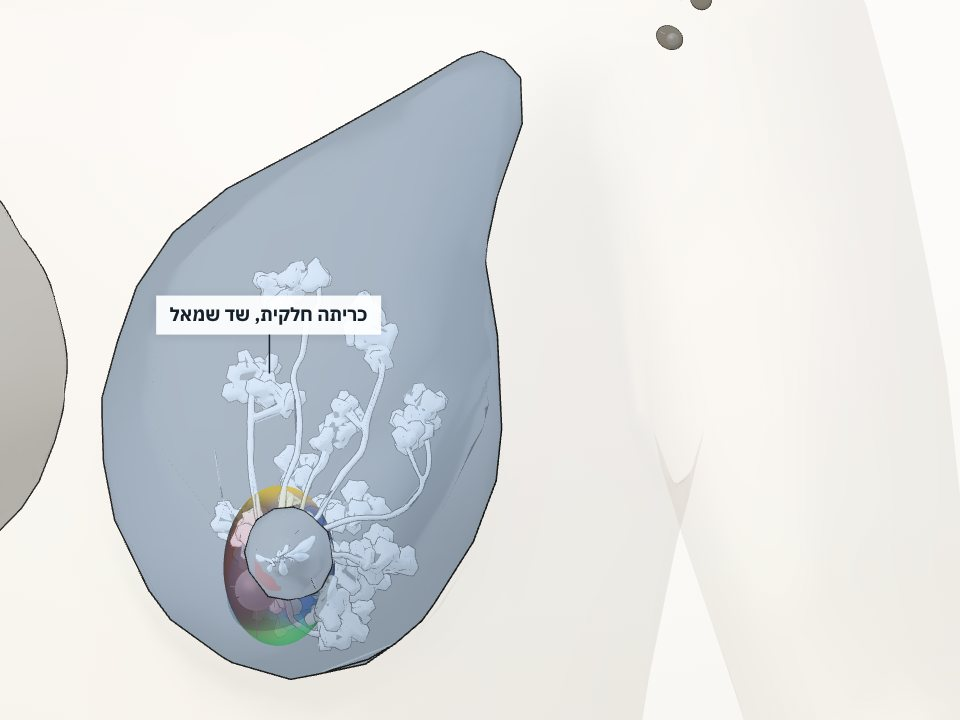
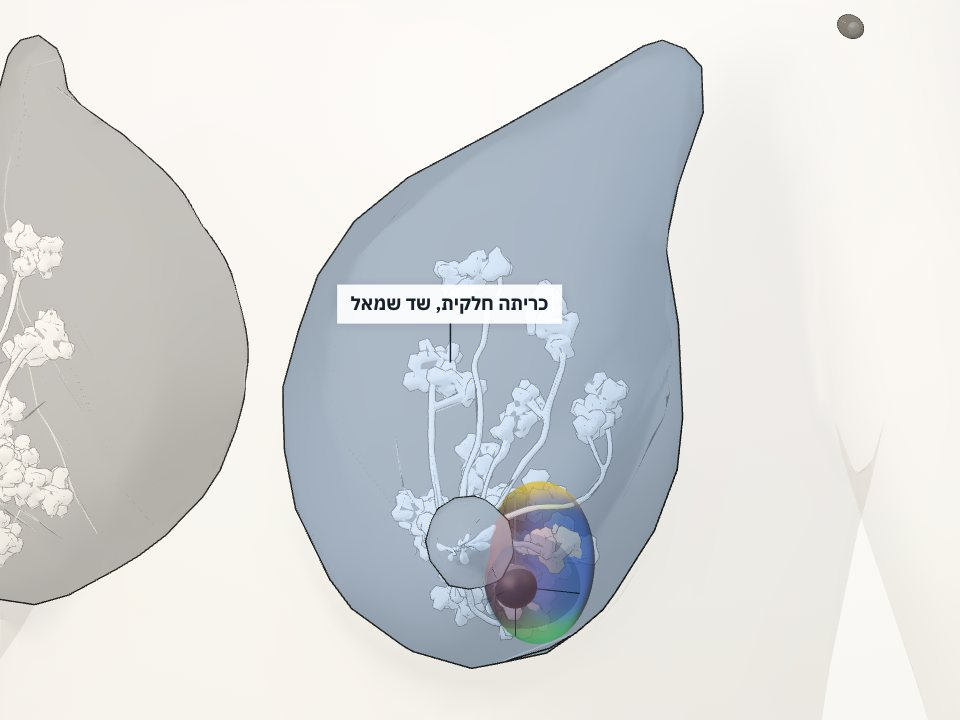
Two frames on every screen, and the case in the lower-outer quadrant
- Layout: from 1000px every screen is two frames, the stage in two thirds
  (.frame-main) and the reading in a third (.panel). The legend is one strip
  above the stage. Home: text and body side by side, then the video in two
  thirds (hero slot) and the example case in a third. The lab page follows
  the same ratio. Phones keep one column.
- Case: a quadrant field decides the side when a report gives both a clock
  hour and a quadrant; the case sits in the lower-outer quadrant of the left
  breast, by its owner's correction.

Claude-Session: https://claude.ai/code/session_018qeN17xUQZtetaXmSbmC2V

diff --git a/lab/pathology.html b/lab/pathology.html
@@ -22,7 +22,7 @@
 [hidden] { display: none !important; }
 html, body { margin: 0; height: 100%; }
 body { font-family: var(--sans); color: var(--ink); background: var(--paper); direction: rtl; }
-.lab { display: grid; grid-template-columns: minmax(0, 1fr) 400px; height: 100vh; }
+.lab { display: grid; grid-template-columns: minmax(0, 2fr) minmax(0, 1fr); height: 100vh; }
 .stage { position: relative; min-height: 0; overflow: hidden; direction: ltr; background: radial-gradient(120% 90% at 50% 35%, #ffffff 0%, #f7f5f0 70%, #efebe2 100%); }
 .stage canvas { position: absolute; inset: 0; width: 100%; height: 100%; display: block; touch-action: none; cursor: grab; }
 .stage canvas:active { cursor: grabbing; }
@@ -203,7 +203,7 @@ import { CASES } from '../js/case.js';
 // The report is never stored in the repository: it lives in the URL fragment (never sent to a server) and in localStorage.
 // The example below is invented, for illustration only.
 const EXAMPLE = {
-  side: 'R', clock: '10', near: 'far',
+  side: 'R', clock: '10', quad: '', near: 'far',
   ml: 40, si: 38, ap: 30,
   inkLat: 'orange', inkMed: 'green', inkSup: 'blue', inkInf: 'red', inkAnt: 'yellow', inkPost: 'black',
   idc: 9, grade: '1', dcis: 14, lvi: 'no',
@@ -216,7 +216,7 @@ const EXAMPLE = {
 };
 const FIELDS = [
   ['h', 'הניתוח'],
-  ['side', 'צד', { L: 'שמאל', R: 'ימין' }], ['near', 'מרחק מהפטמה', { '': 'לא נכתב', retro: 'מאחורי העטרה', far: 'רחוק מהפטמה' }], ['clock', 'מיקום בשד, לפי שעון', { '': 'לא נכתב בדוח', 12: '12', 1: '1', 2: '2', 3: '3', 4: '4', 5: '5', 6: '6', 7: '7', 8: '8', 9: '9', 10: '10', 11: '11' }],
+  ['side', 'צד', { L: 'שמאל', R: 'ימין' }], ['quad', 'רבע בשד', { '': 'לא נכתב', uo: 'חיצוני־עליון', lo: 'חיצוני־תחתון', ui: 'פנימי־עליון', li: 'פנימי־תחתון' }], ['near', 'מרחק מהפטמה', { '': 'לא נכתב', retro: 'מאחורי העטרה', far: 'רחוק מהפטמה' }], ['clock', 'מיקום בשד, לפי שעון', { '': 'לא נכתב בדוח', 12: '12', 1: '1', 2: '2', 3: '3', 4: '4', 5: '5', 6: '6', 7: '7', 8: '8', 9: '9', 10: '10', 11: '11' }],
   ['h', 'מידות הדגימה'],
   ['ml', 'לטרלי עד מדיאלי'], ['si', 'עליון עד תחתון'], ['ap', 'קדמי עד אחורי'],
   ['h', 'צבע הדיו בכל צד'],
@@ -243,6 +243,7 @@ const DIRS = [ // key, Hebrew, gross field, DCIS field, ink field
   ['post', 'אחורי', 'gPost', 'dPost', 'inkPost'], ['lat', 'לטרלי', 'gLat', 'dLat', 'inkLat'], ['med', 'מדיאלי', 'gMed', 'dMed', 'inkMed'],
 ];
 const INK = '#16202b', NAVY = '#1f4e79', PORCELAIN = '#fbf8f2';
+const QUADS = { uo: 'חיצוני־עליון', lo: 'חיצוני־תחתון', ui: 'פנימי־עליון', li: 'פנימי־תחתון' };
 const KEY = 'refua.lab.pathology';
 const num = (v) => { const n = parseFloat(String(v ?? '').replace(/[<>≤~\s]/g, '').replace(',', '.')); return Number.isFinite(n) ? n : null; };
 const lt = (v) => /[<≤]/.test(String(v ?? ''));
@@ -444,10 +445,13 @@ function layout() {
     if (h) {
       const a = (h % 12) / 12 * Math.PI * 2; // seen from the front: 12 is up, 3 is towards the patient's left
       const rad = R.near === 'retro' ? 14 : 42; // behind the areola, or out in the breast
-      spec.position.set(nip.x + Math.sin(a) * rad, nip.y + half.y + 5, nip.z + Math.cos(a) * rad);
+      // The quadrant, when written, decides the side: reports do not always count the clock from the same side.
+      let dx = Math.sin(a) * rad; const out = R.quad && R.quad[1] === 'o', inn = R.quad && R.quad[1] === 'i';
+      if ((out && dx * s < 0) || (inn && dx * s > 0)) dx = -dx;
+      spec.position.set(nip.x + dx, nip.y + half.y + 5, nip.z + Math.cos(a) * rad);
     }
     const top = new THREE.Vector3(nip.x, nip.y - 6, nip.z + 62);
-    const t1 = tag(`<b>כריתה חלקית, שד ${R.side === 'R' ? 'ימין' : 'שמאל'}</b><small>${h ? `שעה ${h}${R.near === 'retro' ? ', מאחורי העטרה' : ''} · מיקום מקורב` : 'המיקום בתוך השד לא נכתב בדוח'}</small>`, top, 'pin'); tags[tags.length - 1].body = true; t1.dataset.pin = 'breast';
+    const t1 = tag(`<b>כריתה חלקית, שד ${R.side === 'R' ? 'ימין' : 'שמאל'}</b><small>${h ? `שעה ${h}${QUADS[R.quad] ? `, ${QUADS[R.quad]}` : ''}${R.near === 'retro' ? ', מאחורי העטרה' : ''} · מיקום מקורב` : 'המיקום בתוך השד לא נכתב בדוח'}</small>`, top, 'pin'); tags[tags.length - 1].body = true; t1.dataset.pin = 'breast';
     // Sentinel nodes sit in the armpit; the exact spot is not in the report, so the place is representative.
     const axl = new THREE.Vector3(s * 150, -78, 1322);
     list.forEach((g, i) => { g.position.set(axl.x + s * i * 9, axl.y + i * 4, axl.z + i * 12); g.rotation.set(0, 0.5 * s, 0); });

diff --git a/css/app.css b/css/app.css
@@ -82,7 +82,7 @@ ai-menu { margin-inline-start: auto; }
 /* ---------- Work area: right = entry, centre = focus, left = detail ---------- */
 .work {
   display: grid; min-height: 0;
-  grid-template-columns: minmax(260px, 21rem) minmax(0, 1fr) minmax(340px, 29rem);
+  grid-template-columns: minmax(0, 2fr) minmax(0, 1fr); /* two frames: two thirds and a third */
   gap: var(--s4); padding: var(--s3) var(--s4);
 }
 .intro, .panel { min-height: 0; overflow: auto; scrollbar-width: thin; }
@@ -231,11 +231,6 @@ ai-menu { margin-inline-start: auto; }
 
 /* ---------- Medium: figure + panel, intro on top ---------- */
 @media (max-width: 1199px) {
-  .work { grid-template-columns: minmax(0, 1fr) minmax(320px, 26rem); grid-template-rows: auto minmax(0, 1fr); }
-  .intro { grid-column: 1 / -1; display: grid; grid-template-columns: minmax(0, 1.2fr) minmax(0, 1fr) minmax(0, 1fr); gap: var(--s4); overflow: visible; }
-  .intro > .label, .intro .headline, .intro .lede { grid-column: 1; }
-  .home-lead { grid-column: 1 / -1; overflow: visible; }
-  .intro .legend-block { grid-row: 1 / span 3; border-top: 0; padding-top: 0; }
   .inspo, .museum .haiku { display: none; }
   .museum { grid-template-columns: minmax(0, 1fr); }
 }
@@ -701,3 +696,39 @@ body.is-creations .work { display: block; overflow: visible; }
 body.is-creations .intro, body.is-creations .stage, body.is-creations .panel, body.is-creations .home-lead { display: none; }
 .creations-page { display: block; max-width: 1280px; margin: 0 auto; padding: var(--s2) 0 var(--s5); }
 .creations-page app-creations { --cr-sans: var(--sans); --cr-mono: var(--mono); --cr-accent: var(--known); }
+
+/* ---------- Two frames on every screen (Anat, 11.11.2026): the stage in two thirds, the reading in a third ---------- */
+.frame-main { display: contents; }
+@media (min-width: 1000px) {
+  .frame-main {
+    display: grid; grid-template-columns: minmax(0, 1fr); grid-template-rows: auto minmax(0, 1fr); gap: var(--s2); min-height: 0; min-width: 0;
+    background: var(--paper); border: 1px solid var(--hair); padding: var(--s3) var(--s4);
+    box-shadow: 0 1px 2px rgba(22,32,43,.06), 0 18px 40px -28px rgba(22,32,43,.45);
+  }
+  /* The legend becomes one quiet strip above the stage. */
+  .intro { flex-direction: row; flex-wrap: wrap; align-items: baseline; gap: 4px var(--s4); overflow: visible; padding: 0 0 var(--s2); border-bottom: 1px solid var(--hair); }
+  .intro > .label, .intro .lede, .intro .inspo, .intro .legend-block:first-of-type, .intro .legend-block .label { display: none; }
+  .intro .headline { font-size: 19px; margin: 0; }
+  .intro .legend-block { border: 0; padding: 0; margin: 0; margin-inline-start: auto; }
+  .intro .layers-legend { display: flex; gap: var(--s3); flex-wrap: wrap; margin: 0; }
+  .intro .layers-legend li { font-size: 12.5px; grid-template-columns: 30px auto; gap: 6px; }
+  .intro .layers-legend li > :nth-child(n+3) { display: none; }
+
+  /* Home: the teaching and the body side by side, then the video in two thirds and the case in a third. */
+  body.is-home .frame-main { grid-template-columns: minmax(0, 1fr) minmax(0, 1fr); grid-template-rows: none; grid-auto-rows: auto; align-content: start; gap: var(--s3) var(--s4); overflow: auto; scrollbar-width: thin; }
+  body.is-home .home-lead { display: contents; }
+  body.is-home .home-text { grid-column: 1; grid-row: 1; display: flex; flex-direction: column; gap: var(--s3); min-width: 0; }
+  body.is-home .stage { grid-column: 2; grid-row: 1; min-height: 360px; }
+  body.is-home .home-feature, body.is-home #quiz-box, body.is-home .home-lead > .inspo { grid-column: 1 / -1; }
+  body.is-home .home-feature { grid-template-columns: minmax(0, 2fr) minmax(0, 1fr); gap: var(--s3); }
+  body.is-home .home-feature:has(.home-demo:empty) { grid-template-columns: minmax(0, 1fr); }
+  body.is-home .home-feature:has(.home-demo:empty) .home-case { grid-template-columns: minmax(0, 1fr) minmax(0, 2fr); column-gap: var(--s3); }
+  body.is-home .home-feature:has(.home-demo:empty) .home-case img { grid-row: 1 / span 4; margin: 0; }
+  body.is-home .museum { display: none; }
+  body.is-creations .frame-main { display: none; }
+}
+@media (min-width: 1000px) and (max-width: 1199px) {
+  body.is-home .frame-main { grid-template-columns: minmax(0, 1fr); }
+  body.is-home .stage { grid-column: 1; grid-row: 2; }
+  body.is-home .home-feature { grid-template-columns: minmax(0, 1fr); }
+}

diff --git a/js/case.js b/js/case.js
@@ -12,7 +12,7 @@ export const CASES = [
     image: 'img/case-anat.jpg',
     source_he: 'מכתב סיכום ודוח פתולוגי, 2026. מסמכים אישיים, באישור בעלת המקרה.',
     steps: [
-      { k: 'סקר', view: 'body', text_he: 'ממוגרפיה של **בדיקת סקר** מצאה אסימטריה בשד שמאל. לא היה גוש שהורגש קודם.' },
+      { k: 'סקר', view: 'body', text_he: 'ממוגרפיה של **בדיקת סקר** מצאה אסימטריה בשד שמאל, בחלק **החיצוני־התחתון**. לא היה גוש שהורגש קודם.' },
       { k: 'הדמיה', view: 'body', text_he: 'אולטרסאונד: גוש של כ-**10** מ״מ בשד שמאל, ב**שעה 8**, מאחורי העטרה. המקום סומן בקליפ.' },
       { k: 'ביופסיה', view: 'spec', text_he: 'דגימת מחט: **קרצינומה פולשנית של הצינורות** (IDC), דרגה **2**. קולטני אסטרוגן חיוביים. פרוגסטרון ו-HER2 שליליים.' },
       { k: 'ניתוח', view: 'spec', text_he: '**כריתה חלקית**: הגוש יצא עם שכבת רקמה סביבו. מבית השחי נלקחו **2** בלוטות זקיף.' },
@@ -21,7 +21,7 @@ export const CASES = [
       { k: 'הרחבה', view: 'ext', text_he: 'בהרחבת השוליים, בצד התחתון־מדיאלי: **3** צינורות עם DCIS, במרחק **2.6** מ״מ מהשוליים החדשים.' },
     ],
     report: {
-      side: 'L', clock: '8', near: 'retro', ml: 30, si: 45, ap: 35,
+      side: 'L', clock: '8', quad: 'lo', near: 'retro', ml: 30, si: 45, ap: 35,
       inkLat: 'black', inkMed: 'black', inkSup: 'yellow', inkInf: 'green', inkAnt: 'red', inkPost: 'blue',
       idc: 12, grade: '2', dcis: 30, lvi: 'yes',
       gSup: 20, gInf: 7, gAnt: 3, gPost: 10, gLat: 17, gMed: 6,

diff --git a/js/app.js b/js/app.js
@@ -451,6 +451,7 @@ let quizState = { answers: {} };
 function homeLead() {
   const n = (x) => `<span class="num">${x}</span>`;
   return `
+    <div class="home-text">
     <p class="label">על רגל אחת</p>
     <blockquote class="hillel">
       <p class="h-ar">„${HOME.hillel_he}”</p>
@@ -465,8 +466,9 @@ function homeLead() {
       <li><button class="numcell press-soft" data-view-go="history">${n(TIMELINE.length)}<span>גילויים</span></button></li>
       <li><button class="numcell press-soft" data-view-go="sources">${n(Object.keys(SOURCES).length)}<span>מקורות</span></button></li>
     </ul>
+    </div>
     <div class="home-feature">
-      <div class="home-demo" data-aoa-demo="large" aria-label="סרטון הדגמה"></div>
+      <div class="home-demo" data-aoa-demo="hero" aria-label="סרטון הדגמה"></div>
       ${CASES.slice(0, 1).map((c) => `<a class="home-case press-soft" href="${caseHref(c)}">
         <img src="${c.image}" alt="" loading="lazy">
         <span class="label">מקרה לדוגמה · סרטן השד</span>

diff --git a/index.html b/index.html
@@ -46,6 +46,7 @@
 
   <main class="work" dir="rtl">
 
+    <div class="frame-main">
     <aside class="intro" aria-label="איך קוראים את המפה">
       <p class="label">אטלס של גילויים</p>
       <h1 class="headline display">הגוף כעיר של רשתות. <mark>כל רשת היא גילוי.</mark></h1>
@@ -122,6 +123,7 @@
         </figure>
       </div>
     </section>
+    </div>
 
     <!-- יצירות: חדר לכל נושא, נטען רק בכניסה לדף (AppOfApp-GH/docs/creations-standard.md) -->
     <section class="creations-page" id="creations-page" aria-label="יצירות" hidden></section>

diff --git a/CLAUDE.md b/CLAUDE.md
@@ -114,6 +114,9 @@
   - **בדף הבית:** אריח המקרה יושב עם הסרטון באותה משבצת (`.home-feature`), מעל "בדיקה של דקה".
   - **חריגה מכוונת מ-SAFETY סעיף 9** ("סטטיסטיקה ברמת אוכלוסייה בלבד"), באישור ענת: מקרה אישי אחד, מסומן "מקרה אחד, ולא כלל", בלי פירוש, בלי תחזית ובלי המלצה.
 
+- 11.11.2026: ענת: "תארגן את כל המסכים באפליקציה ב-2 מסגרות ביחס שני שליש, את דף הפתיחה ואת הסרטון בו". **שתי מסגרות בכל מסך**, מרוחב 1000 פיקסלים: הבמה בשני שליש (`.frame-main`), והקריאה בשליש (`.panel`). המקרא (ידוע, נאמר, מאמינים) הפך לפס אחד מעל הבמה. בדף הבית, במסגרת הגדולה: הטקסט והגוף זה לצד זה, ומתחתם הסרטון בשני שליש (`data-aoa-demo="hero"`) והמקרה לדוגמה בשליש. גם `lab/pathology.html` באותו יחס. בנייד נשאר טור אחד (`.frame-main` ב-`display: contents`).
+- 11.11.2026: ענת: "8 הוא חיצוני תחתון". בדוח שלה שעה 8 בשד שמאל היא הצד החיצוני־התחתון. נוסף שדה `quad` (רבע בשד): כשהוא כתוב, הוא קובע את הצד, והשעה קובעת רק את הזווית.
+
 ## למדנו בבנייה
 - כיווניות של טווח מספרים ("3.5–5") מתהפכת ביצירה. כותבים "**3.5** עד **5**".
 - דף בית הוא לא מסך אחר באפליקציה, אלא הזיקוק שלה. מתחילים ממנו, לא מגיעים אליו בסוף. אפליקציה בלי דף בית נראית כמו כלי בלי כותרת.
@@ -178,3 +181,5 @@
 - מקרה אישי מוצג כסיפור בשלבים, וכל שלב הוא גם כפתור שמזיז את הבמה. כך ההסבר וההדמיה הם אותו דבר.
 - שני מסמכים על אותו מקרה יכולים לסתור זה את זה במיקום (רבע בשד מול שעה). מציגים את המיקום שיש לו הכי הרבה עדויות, ולא כותבים את הסותר.
 - לפני שמידע רפואי עם שם עולה לריפו ציבורי: בונים מקומית, מראים, ושואלים שאלה אחת עם שלוש אפשרויות (בשם, בלי שם, בקישור אישי).
+- שעון בשד לא נספר תמיד מאותו צד. כשיש גם רבע (חיצוני, פנימי) וגם שעה, הרבע קובע את הצד. לא מניחים מוסכמה, שואלים את בעלת המקרה.
+- שתי מסגרות בלי לשכתב את הדף: עוטפים את הבמה ואת מה שלצידה ב-`div` אחד, ובנייד הוא `display: contents`, כך שכללי הנייד הקיימים ממשיכים לעבוד.
